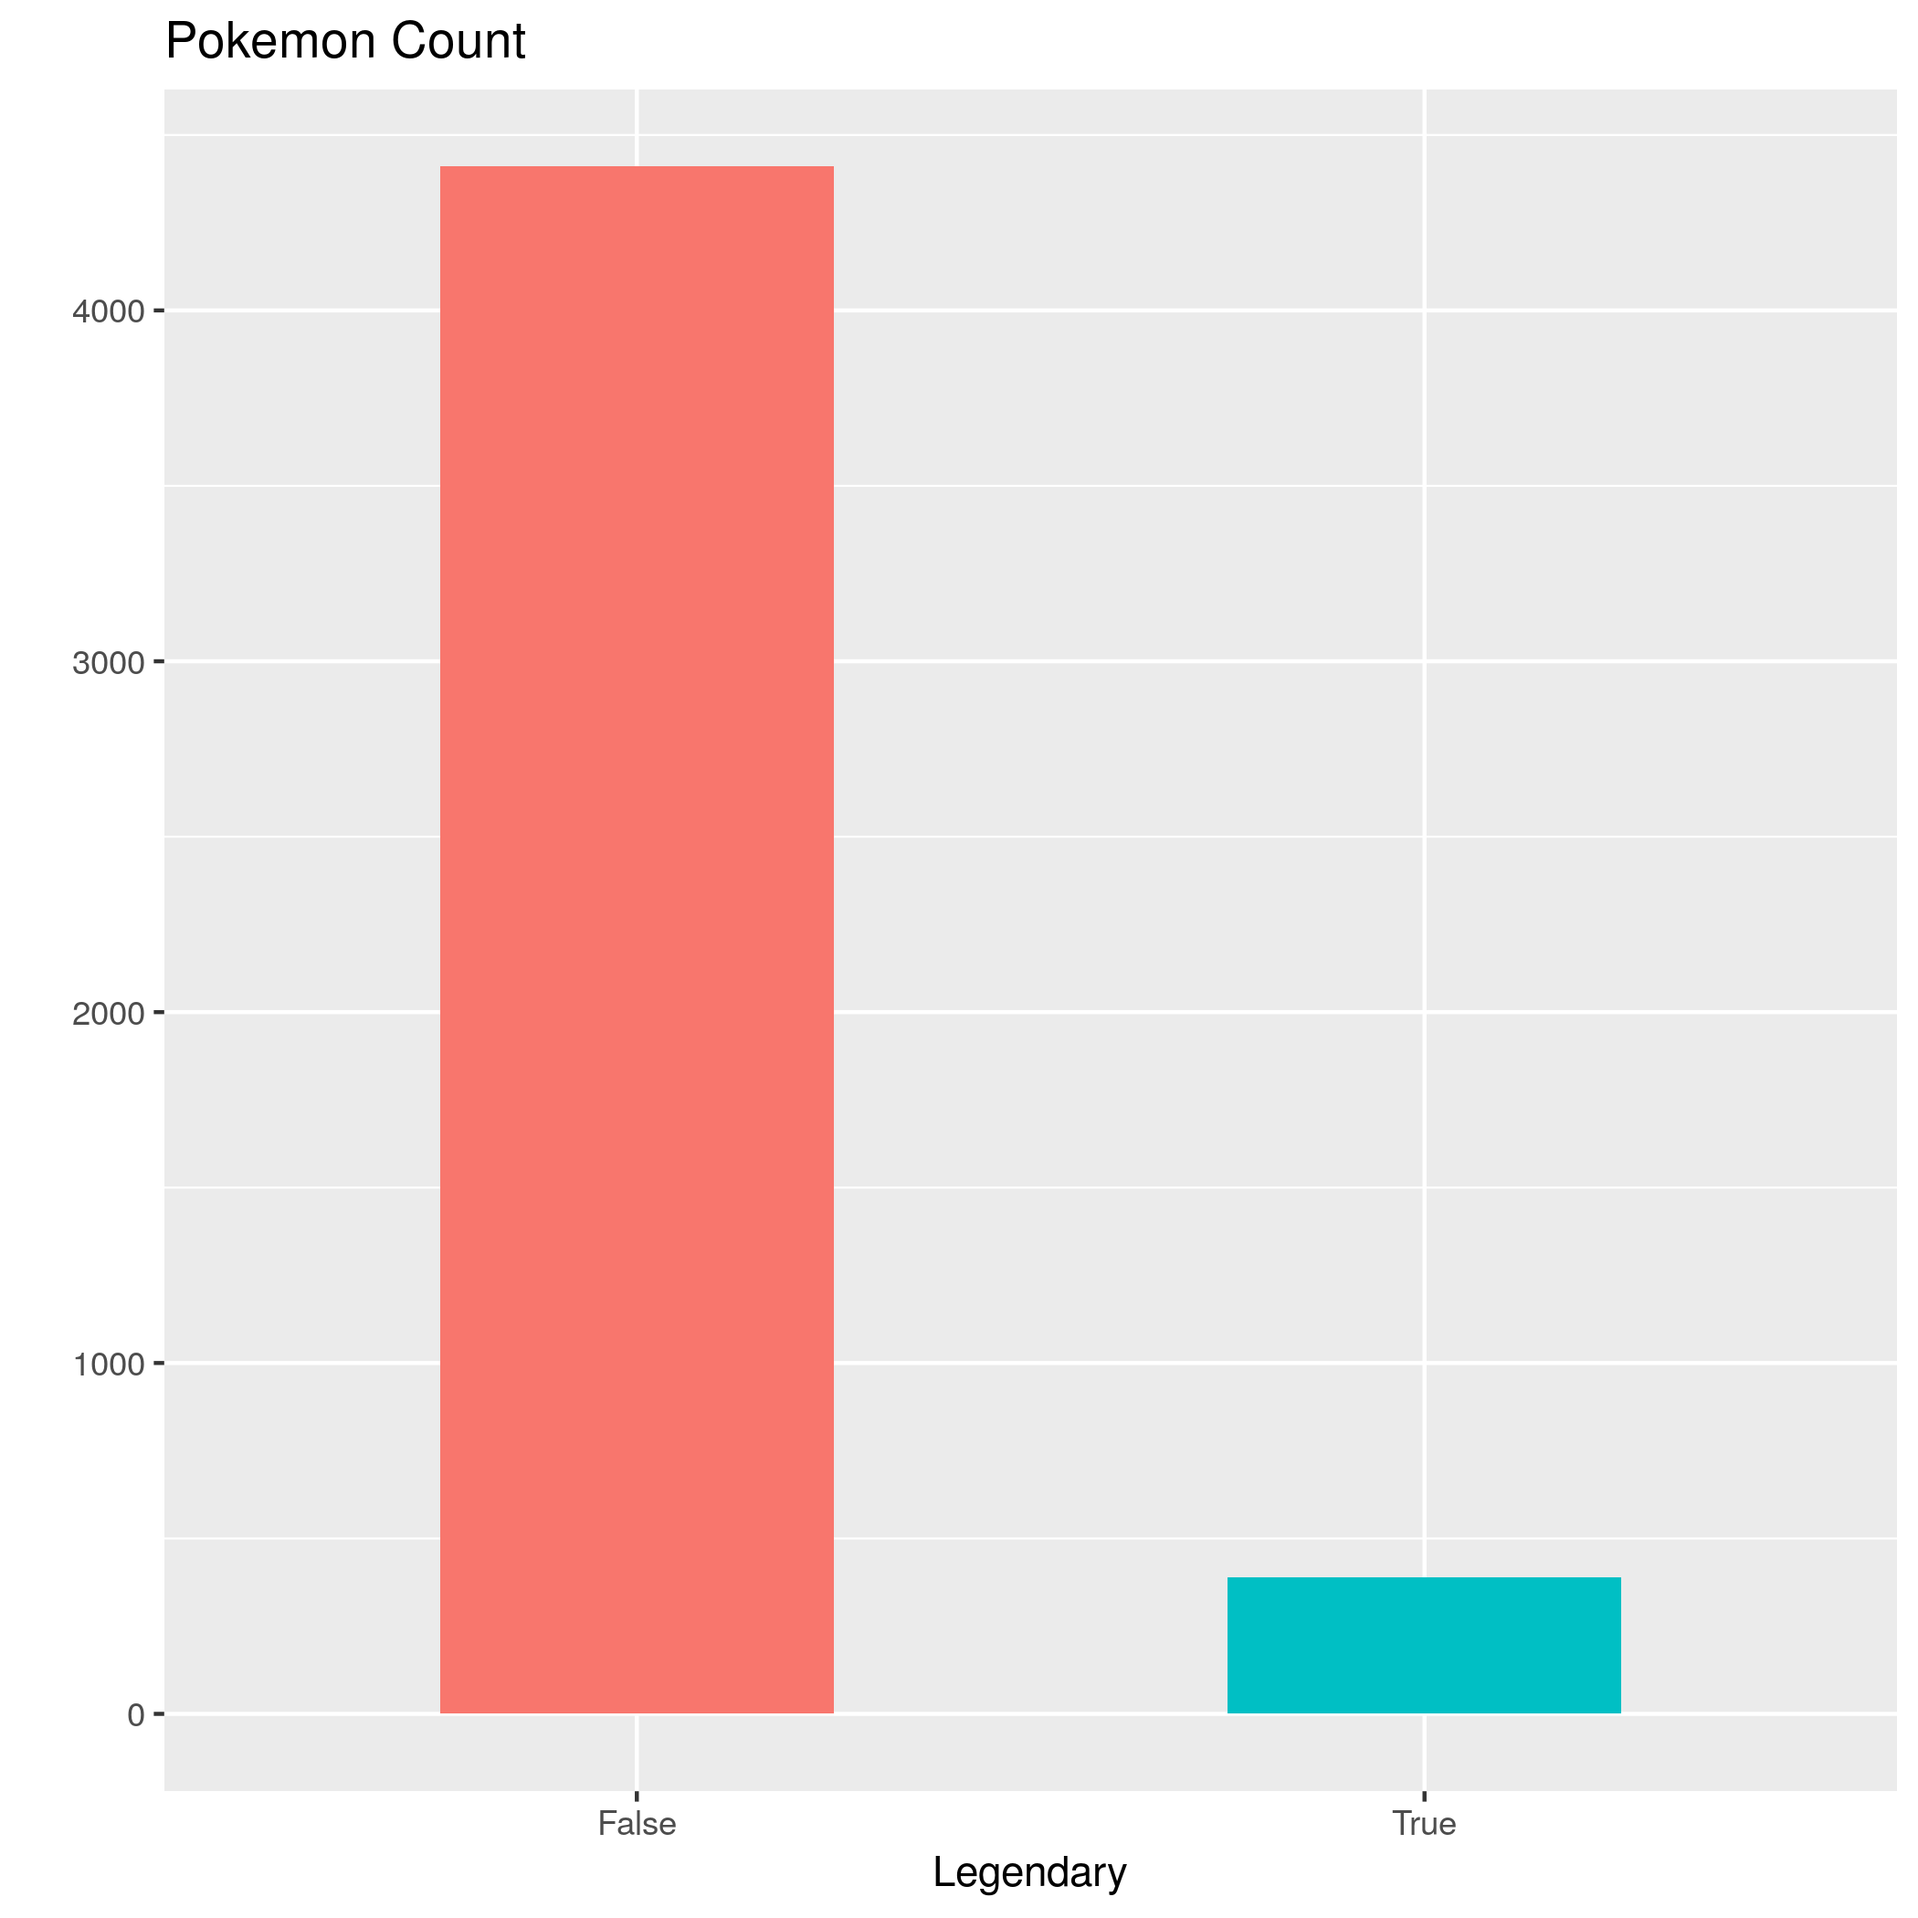
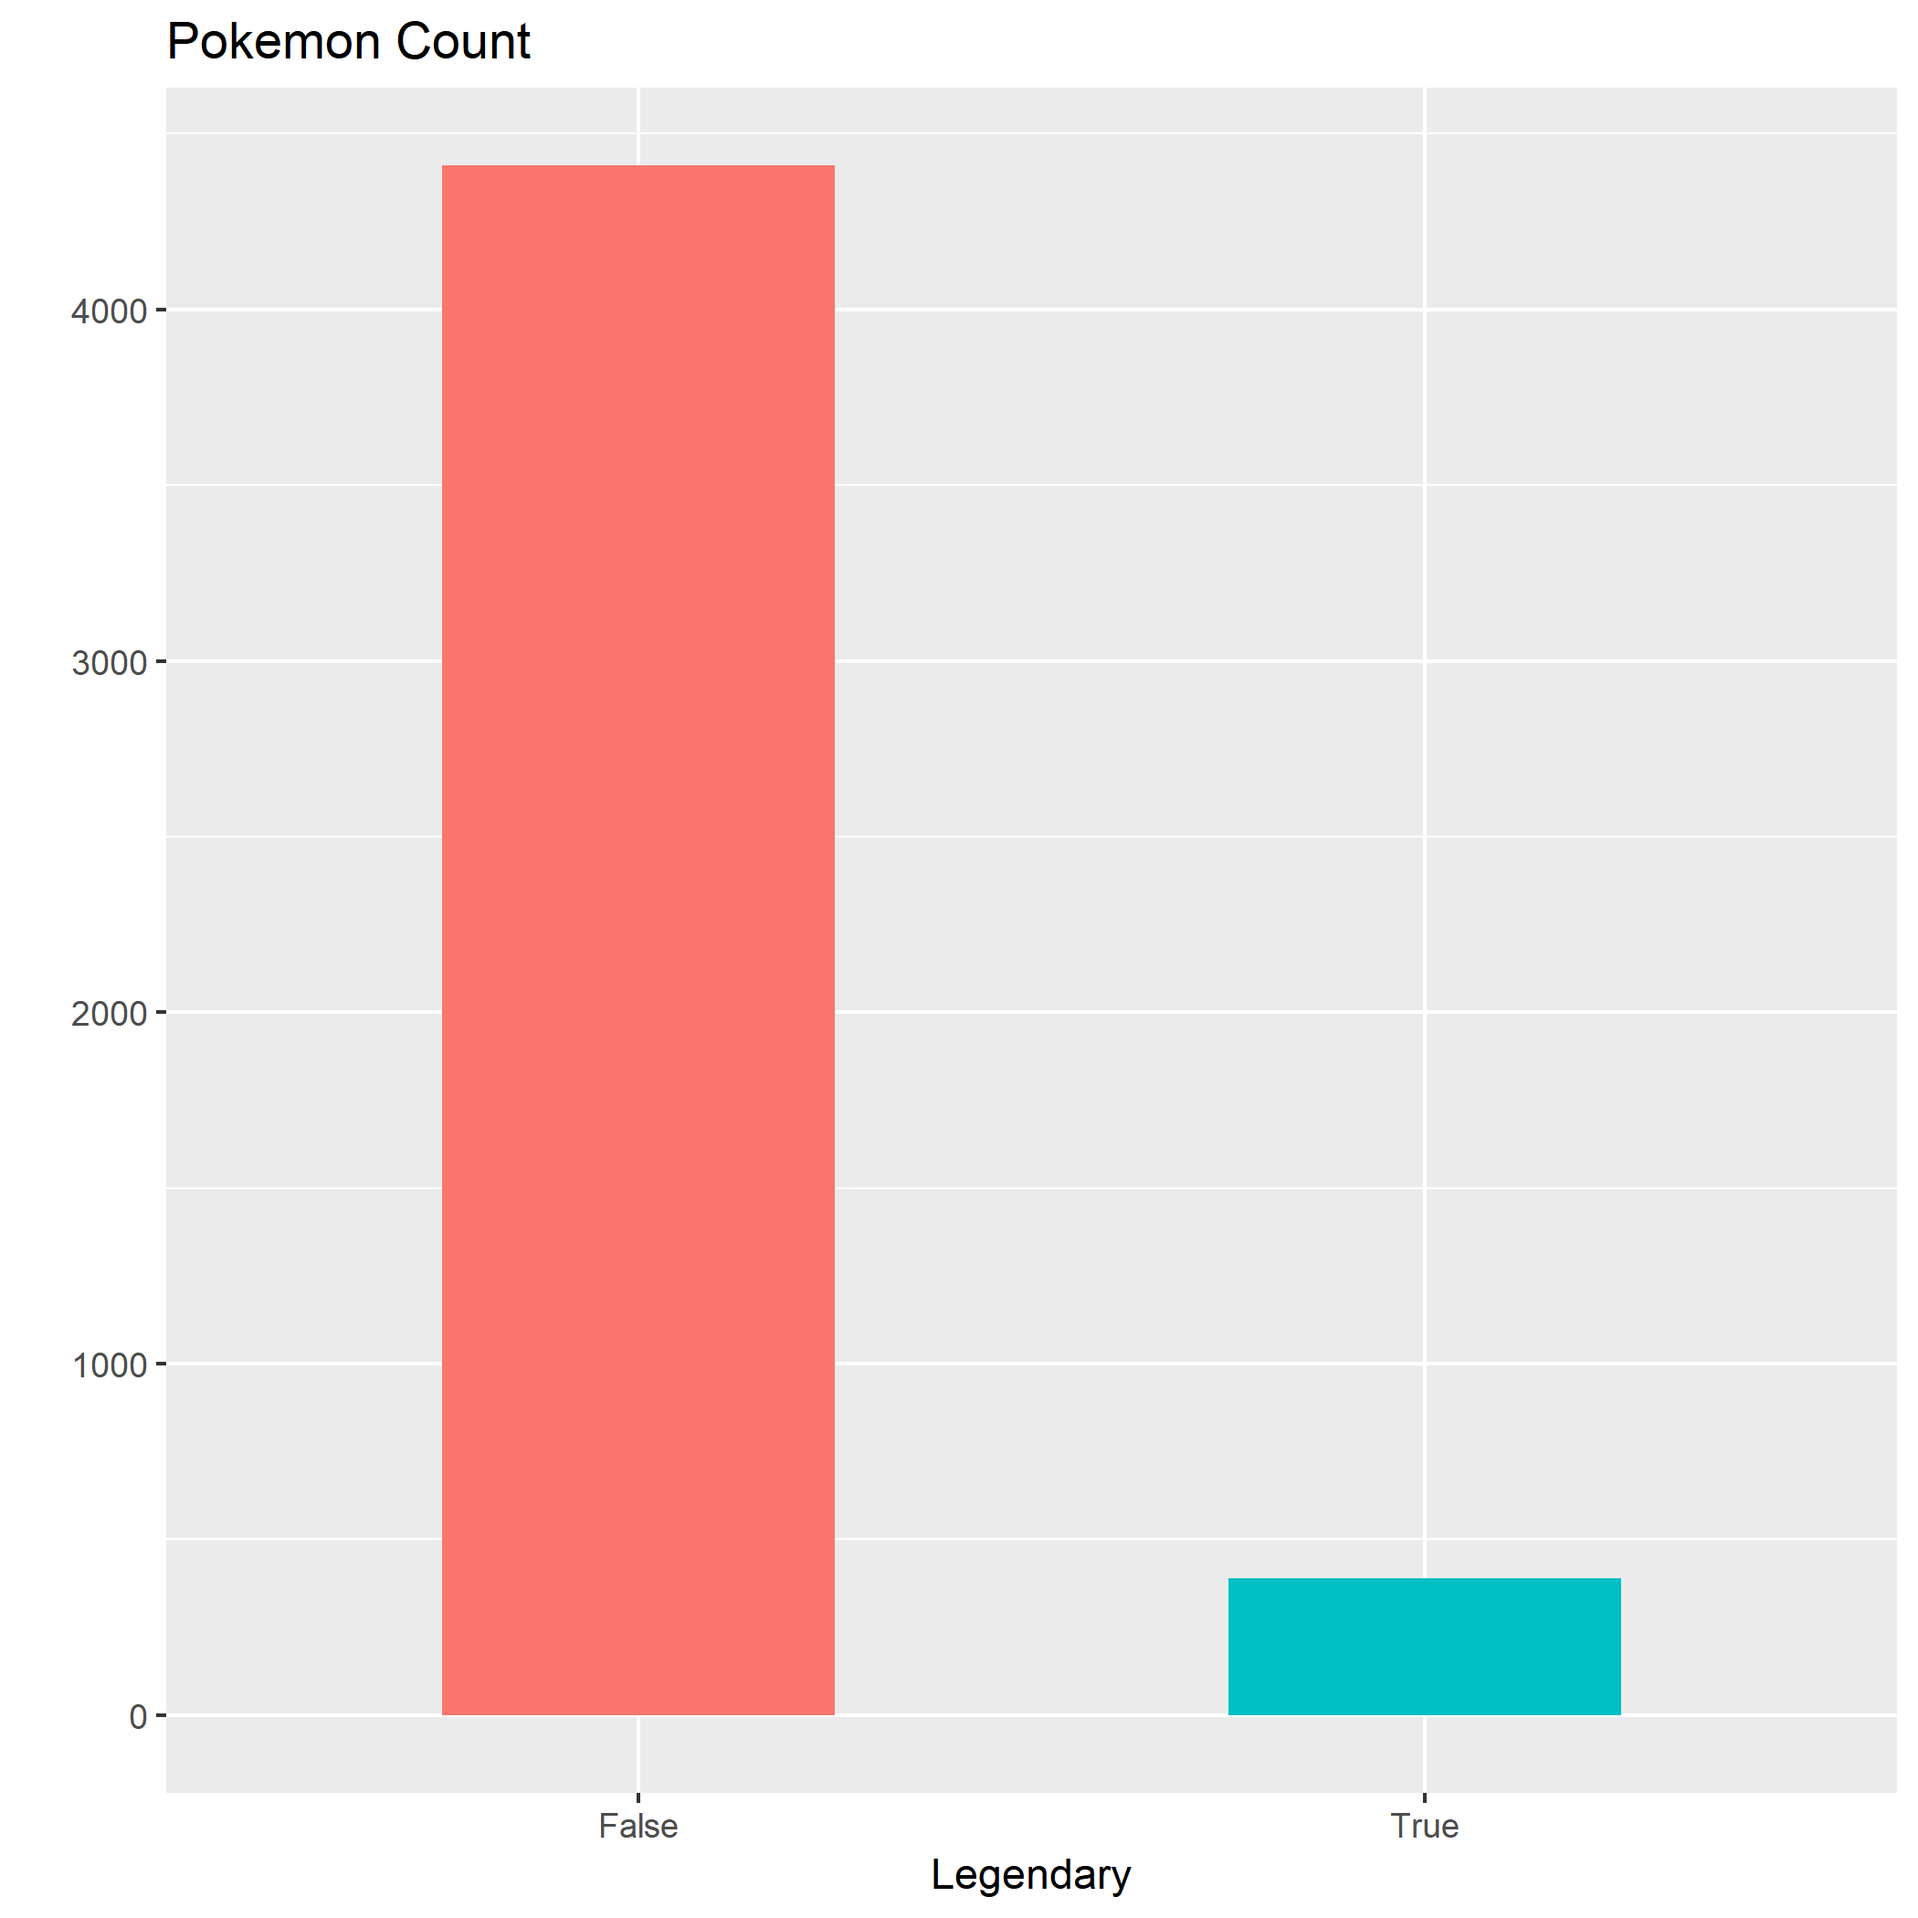
Finished except intro (#22)
* First commit for the 4 questions in proposal

* Update README.md

* finished EDA

* touched up script spacing

* worked on more analysis

* touched up spacing

* post lab

* nov 23

* patching

* committing current progress

* finished EDA Type Comparison

* finished except intro

diff --git a/data/readpokemon.py b/data/readpokemon.py
@@ -1,0 +1,8 @@
+import sys
+import numpy as np
+import pandas as pd
+from sklearn.tree import DecisionTreeClassifier, export_graphviz
+from sklearn.feature_extraction.text import CountVectorizer
+
+pokemon = pd.read_csv("./data/Pokemon.csv")
+pokemon.head()

diff --git a/doc/Final_Report.md b/doc/Final_Report.md
@@ -2,121 +2,70 @@ Pokemon Legendariness Classifier
 ================
 Rayce Rossum, Jack Yang
 
-## Intro
+Intro
+-----
 
 ### Proposal Question
 
-We are interested in what are the top strongest indicators that
-determines whether a Pokemon is legendary.  
-This question is **Predictive** as we are using existing Pokemon data to
-assess the attributes that are most indicative of a legendary Pokemon
+We are interested in what are the top strongest indicators that determines whether a Pokemon is legendary.
+This question is **Predictive** as we are using existing Pokemon data to assess the attributes that are most indicative of a legendary Pokemon
 
 ### Procedure
 
 #### Data Retrieval
 
-We downloaded the Pokemon dataset from from
-[Kaggle](https://www.kaggle.com/abcsds/pokemon) and used the respective
-read csv calls from R and Python.
+We downloaded the [Pokemon Dataset](https://www.kaggle.com/abcsds/pokemon) from Kaggle and used the respective read csv calls from R and Python.
 
 #### Data Cleaning
 
-We dropped “Generation” and “Total” from our set of features. “Total”
-was dropped as it was not an independent variables, it was in fact fully
-dependent on all of the other stat variables, therefore it made no
-significant difference to our results. “Generation” was dropped as
-number of legendaries varies between generations and we did not want the
-generation to influence our decision tree.
+We dropped "Generation" and "Total" from our set of features. "Total" was dropped as it was not an independent variables, it was in fact fully dependent on all of the other stat variables, therefore it made no significant difference to our results. "Generation" was dropped as number of legendaries varies between generations and we did not want the generation to influence our decision tree.
 
 #### Exploratory Data Analysis
 
-The following barplot explores the dataset and gives us some intuition
-of what proportion of Pokemon is actually legendary.
+The following barplot explores the dataset and gives us some intuition of what proportion of Pokemon is actually legendary.
 
-We are most curious in determining whether there is a relationship
-between Pokemon attributes and the legendary status.
+<img src="C:/Users/Jack/Documents/Data Science/DSCI522_workflows/DSCI_522_Pokemon_Legendariness_Classifier/results/EDA_pokemonCount.png" width="80%" />
 
-Lastly, we also want to see whether there is favoritism for legendary
-Pokemon across different types.
+Figure 1: Pokemon Count
+
+As we can see, less than 10 percent of Pokemon are legendary. This is actually a little more than expected.
+
+We are most curious in determining whether there is a relationship between Pokemon attributes and the legendary status.
+
+<img src="C:/Users/Jack/Documents/Data Science/DSCI522_workflows/DSCI_522_Pokemon_Legendariness_Classifier/results/EDA_pokemonFeatureComparison.png" width="80%" />
+
+Figure 2: Pokemon Feature Comparison
+
+We can see that indeed, legendary Pokemon tend to have higher stats compared to regular Pokemon.
+
+Lastly, we also want to see whether there is favoritism for legendary Pokemon across different types.
+
+<img src="C:/Users/Jack/Documents/Data Science/DSCI522_workflows/DSCI_522_Pokemon_Legendariness_Classifier/results/EDA_pokemonTypeComparison.png" width="80%" />
+
+Figure 3: Pokemon Type Comparison
+
+It turns out "Flying", "Dragon" and "Psychic" types seem to take up a disproportionate number of all legendaries, given their representation. We would expect these types to play a role as legendary predictors.
 
 #### Analysis
 
-We used the decision tree classifier in Python’s sklearn. We split our
-data into a features set that included stats and type of Pokemon, and a
-target set that included the Pokemon’s legendary status. A train and
-test set were created and a `DecisionTreeClassifier` was then used to
-generate our model. We optimized our hyper parameter (depth) by cross
-validation on our test set. After fitting the data, the object attribute
-`feature_importances_` returned an array of the gini score reduction of
-each feature. The top features with the highest values answer our
-question.
+We used the decision tree classifier in Python's sklearn. We split our data into a features set that included stats and type of Pokemon, and a target set that included the Pokemon's legendary status. Type attributes (categorical variables) for the Pokemon were split into columns containing dummy variables due to the shortcomings of the `sklearn` implmentation of decision trees. The `DecisionTreeClassifier` was then used to generate our model. We optimized our hyper parameter (depth) by conducting cross validation. After selecting the most optimal depth, we refitted the entire dataset. The object attribute `feature_importances_` returned an array of the gini score reduction of each feature. The features with the highest values answer our question.
 
 #### Results
 
-From our analysis, we found “Sp. Atk”, “Attack”, “Speed” and “HP” to
-have the greatest impact on determining the legendary status of Pokemon.
-Types, as it turned out, have very little influence.
+From our analysis, we found "Sp. Atk", "Attack", "Speed" and "HP" to have the greatest impact on determining the legendary status of Pokemon. Types, as it turned out, had no influence, which was very surprising.
 
-These top attributes, however, are greatly dependent on the set random
-state. After many iterations, we found “Sp. Atk” and “Attack” to
-consistently have high
-importance.
-
-``` r
-important_features = read_csv(here::here("results", "DecisionTree_important_features.csv"))
-```
-
-    ## Warning: Missing column names filled in: 'X1' [1]
-
-    ## Parsed with column specification:
-    ## cols(
-    ##   X1 = col_integer(),
-    ##   Feature = col_character(),
-    ##   Importance = col_double()
-    ## )
-
-``` r
-knitr::kable(important_features)
-```
-
-| X1 | Feature         | Importance |
-| -: | :-------------- | ---------: |
-|  3 | Sp. Atk         |  0.3403565 |
-|  1 | Attack          |  0.1714065 |
-|  5 | Speed           |  0.1354356 |
-|  0 | HP              |  0.1345492 |
-|  2 | Defense         |  0.0441327 |
-| 20 | Type 1\_Psychic |  0.0372505 |
-|  4 | Sp. Def         |  0.0258732 |
-| 41 | Type 2\_Water   |  0.0208191 |
-| 28 | Type 2\_Fairy   |  0.0195573 |
-| 23 | Type 1\_Water   |  0.0191334 |
-| 33 | Type 2\_Grass   |  0.0177668 |
-| 31 | Type 2\_Flying  |  0.0161180 |
-| 35 | Type 2\_Ice     |  0.0161180 |
+| Feature |  Importance|
+|:--------|-----------:|
+| Sp. Atk |   0.5316970|
+| Attack  |   0.3389105|
+| Sp. Def |   0.1293925|
 
 #### Limitations and Time Considerations
 
-With our current knowledge level, between decision trees and KNN, we
-were more comfortable with classifying categorical and numerical
-variables using decision trees. However, we cannot say whether decision
-trees is better than KNN. A problem we encountered using decision trees
-is that it is dependent on random states for tie breaking. It is
-difficult to conclusively state the exact combination of top predictors
-as they vary at times. KNN does not have this error. These two may also
-not be the best method for our question. Our views may change in a few
-weeks from now with more techniques learned in 571.
+With our current knowledge level, between decision trees and KNN (k neartest neighbors), we were more comfortable with classifying categorical and numerical variables using decision trees. However, we cannot say whether decision trees is better than KNN. These two may also not be the best method for our question. Our views may change in a few weeks from now with more techniques learned in 571.
 
-An interesting insight that we did not make use of in our analysis is
-the fact that many legendary Pokemon are classified as “Genderless”,
-therefore if we were to add another feature to our dataset, it may give
-us another good indicator.
+An interesting insight that we did not make use of in our analysis is the fact that many legendary Pokemon are classified as "Genderless", therefore if we were to add another feature to our dataset, it may give us another good indicator.
 
-Another limitation with this analysis is the “pseudo-legendary”, a
-Pokemon with high stats that is not considered legendary. So in this
-case, our classifier would wrongly classify a normal Pokemon as a
-legendary.
+Another limitation with this analysis is the "pseudo-legendary", a Pokemon with high stats that is not considered legendary. So in this case, our classifier would wrongly classify a normal Pokemon as a legendary.
 
-With more time avilable, we would test likely mis-classifications, add a
-“Gender” feature and attempt to improve the score of our model by
-identifying better features.
+With more time avilable, we would test likely mis-classifications, add a "Gender" feature and attempt to improve the score of our model by identifying better features.
